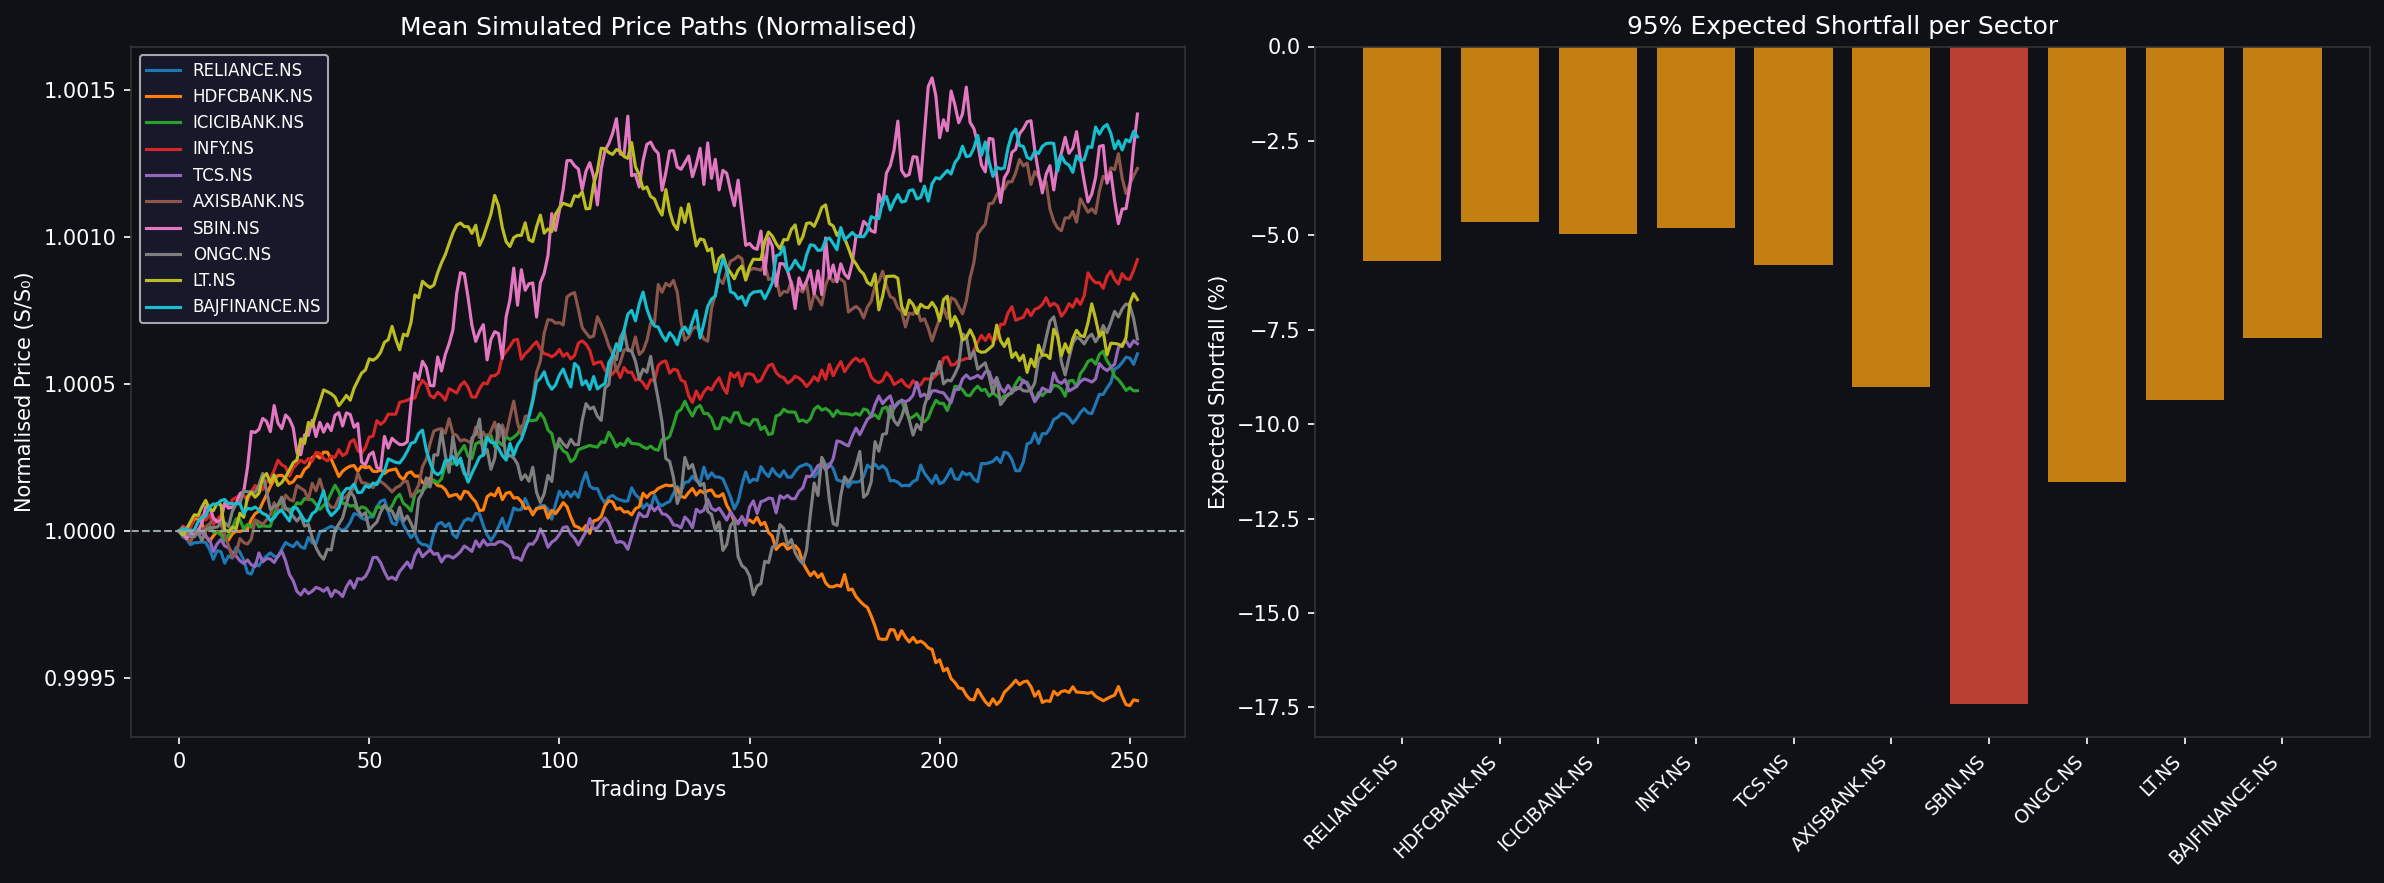
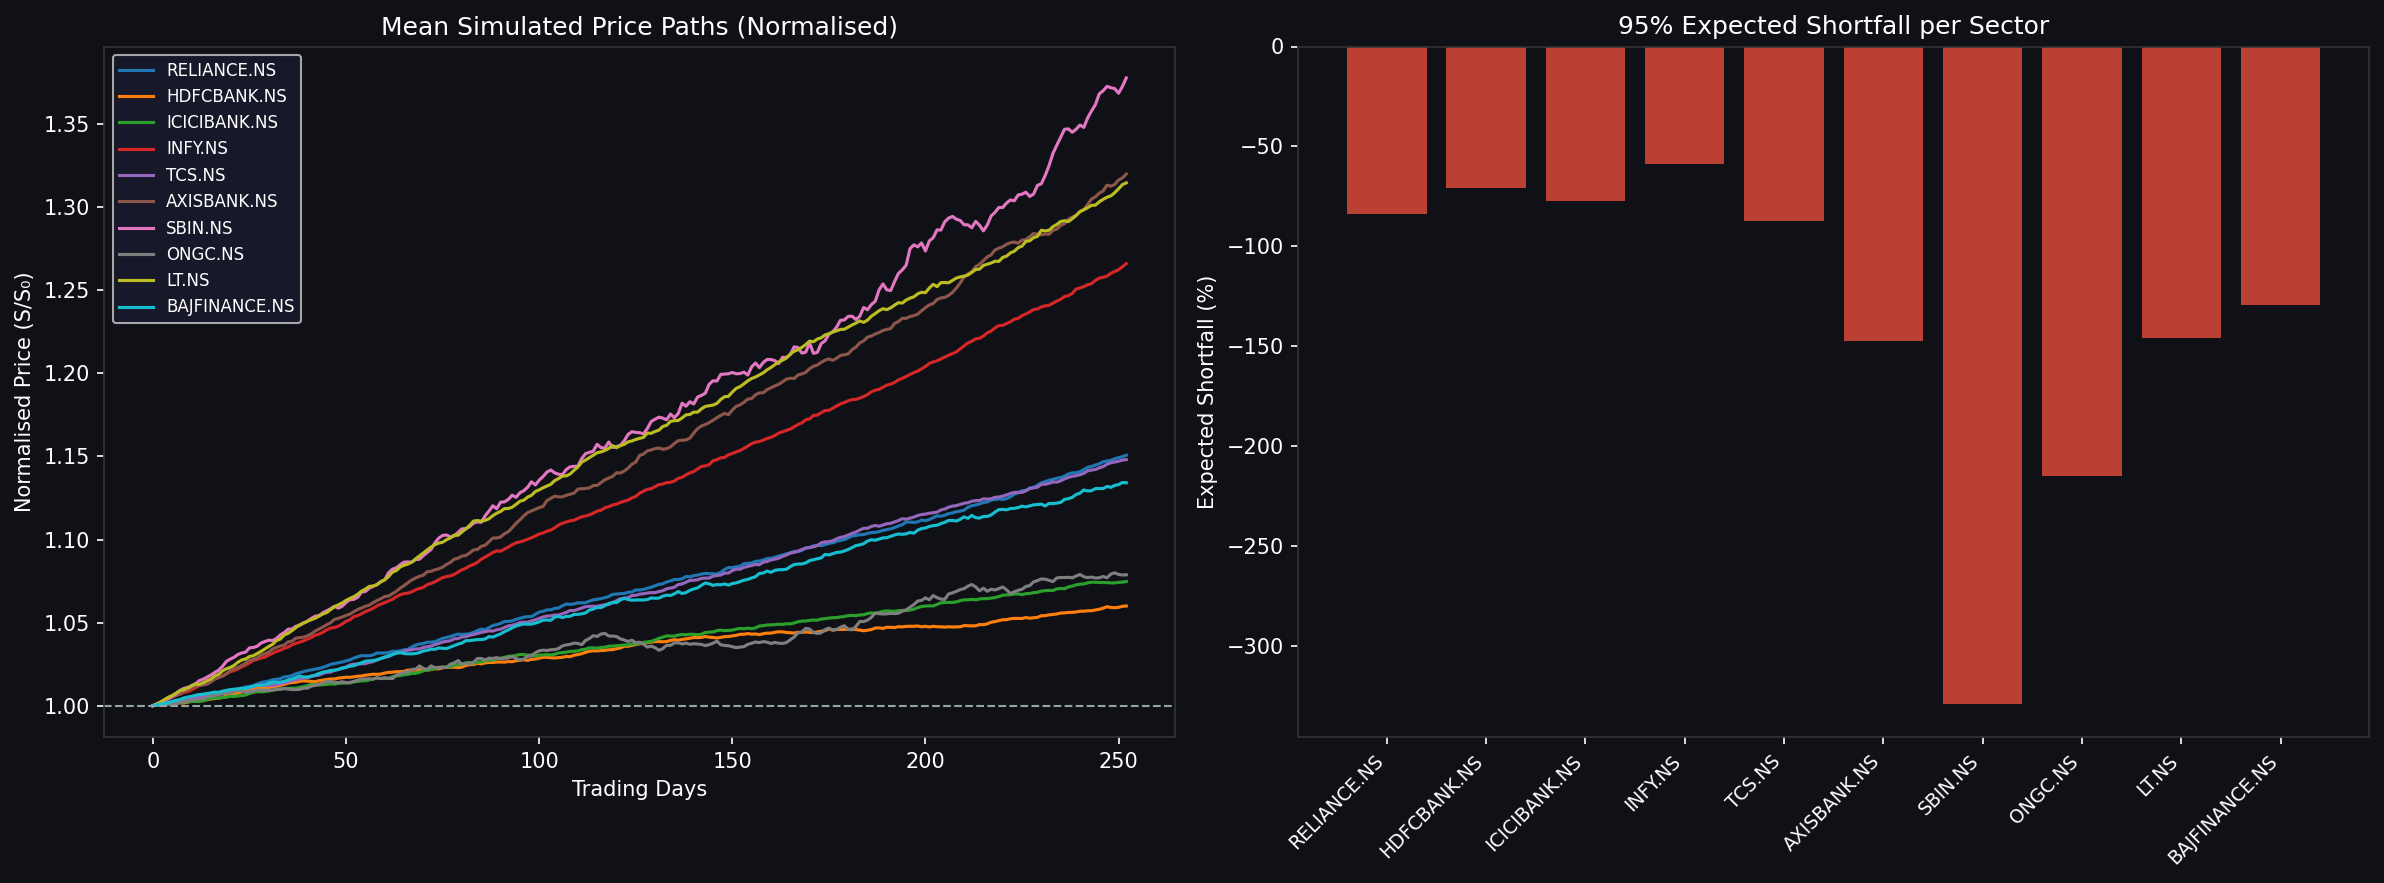
Add 3D visualization for Monte Carlo simulations

diff --git a/dashboard/monte_carlo_3d.py b/dashboard/monte_carlo_3d.py
@@ -1,0 +1,55 @@
+import numpy as np
+import plotly.graph_objects as go
+
+
+def plot_3d_surface(simulated_paths: np.ndarray, asset_idx: int = 0, n_paths: int = 200):
+    """
+    Plot a 3D surface of Monte Carlo simulation paths.
+
+    Parameters
+    ----------
+    simulated_paths : np.ndarray
+        Shape: (N_paths, N_steps+1, N_assets)
+        Full 3D output from run_simulation().
+    asset_idx : int
+        Which asset to visualise (default 0 = first asset).
+    n_paths : int
+        Number of paths to show (default 200 for performance).
+    """
+    # Slice: (N_paths, N_steps+1, N_assets) → (n_paths, N_steps+1)  for one asset
+    z = simulated_paths[:n_paths, :, asset_idx]          # shape: (n_paths, N_steps+1)
+
+    n_paths_actual, n_steps_plus1 = z.shape
+    x = np.arange(n_steps_plus1)                         # time axis  (0 … N_steps)
+    y = np.arange(n_paths_actual)                         # path index axis
+
+    X, Y = np.meshgrid(x, y)                             # both shape: (n_paths, N_steps+1)
+
+    fig = go.Figure(data=[go.Surface(
+        x=X, y=Y, z=z,
+        colorscale="Viridis",
+        opacity=0.85,
+        colorbar=dict(title="Price (₹)", tickfont=dict(color="white")),
+    )])
+
+    fig.update_layout(
+        title=dict(
+            text=f"Monte Carlo Simulation — Asset {asset_idx}  "
+                 f"({n_paths_actual} paths × {n_steps_plus1 - 1} steps)",
+            font=dict(size=16, color="white"),
+        ),
+        scene=dict(
+            xaxis=dict(title="Time Step (days)", color="white", gridcolor="#333"),
+            yaxis=dict(title="Path Index",       color="white", gridcolor="#333"),
+            zaxis=dict(title="Price (₹)",        color="white", gridcolor="#333"),
+            bgcolor="#0f1117",
+        ),
+        paper_bgcolor="#0f1117",
+        plot_bgcolor="#0f1117",
+        font=dict(color="white"),
+        width=1000,
+        height=750,
+        margin=dict(l=0, r=0, b=0, t=60),
+    )
+
+    fig.show()

diff --git a/main.py b/main.py
@@ -645,6 +645,10 @@ def main(
     # ── 8. Dashboard plot ─────────────────────────────────────────────────────
     plot_dashboard(paths, S0, risk, run_cfg)
 
+    # ── 9. 3D Monte Carlo surface ─────────────────────────────────────────────
+    from dashboard.monte_carlo_3d import plot_3d_surface
+    plot_3d_surface(paths)
+
     t_end = time.time()
     log.info("=" * 70)
     log.info("  Pipeline complete in %.2f s", t_end - t_start)
